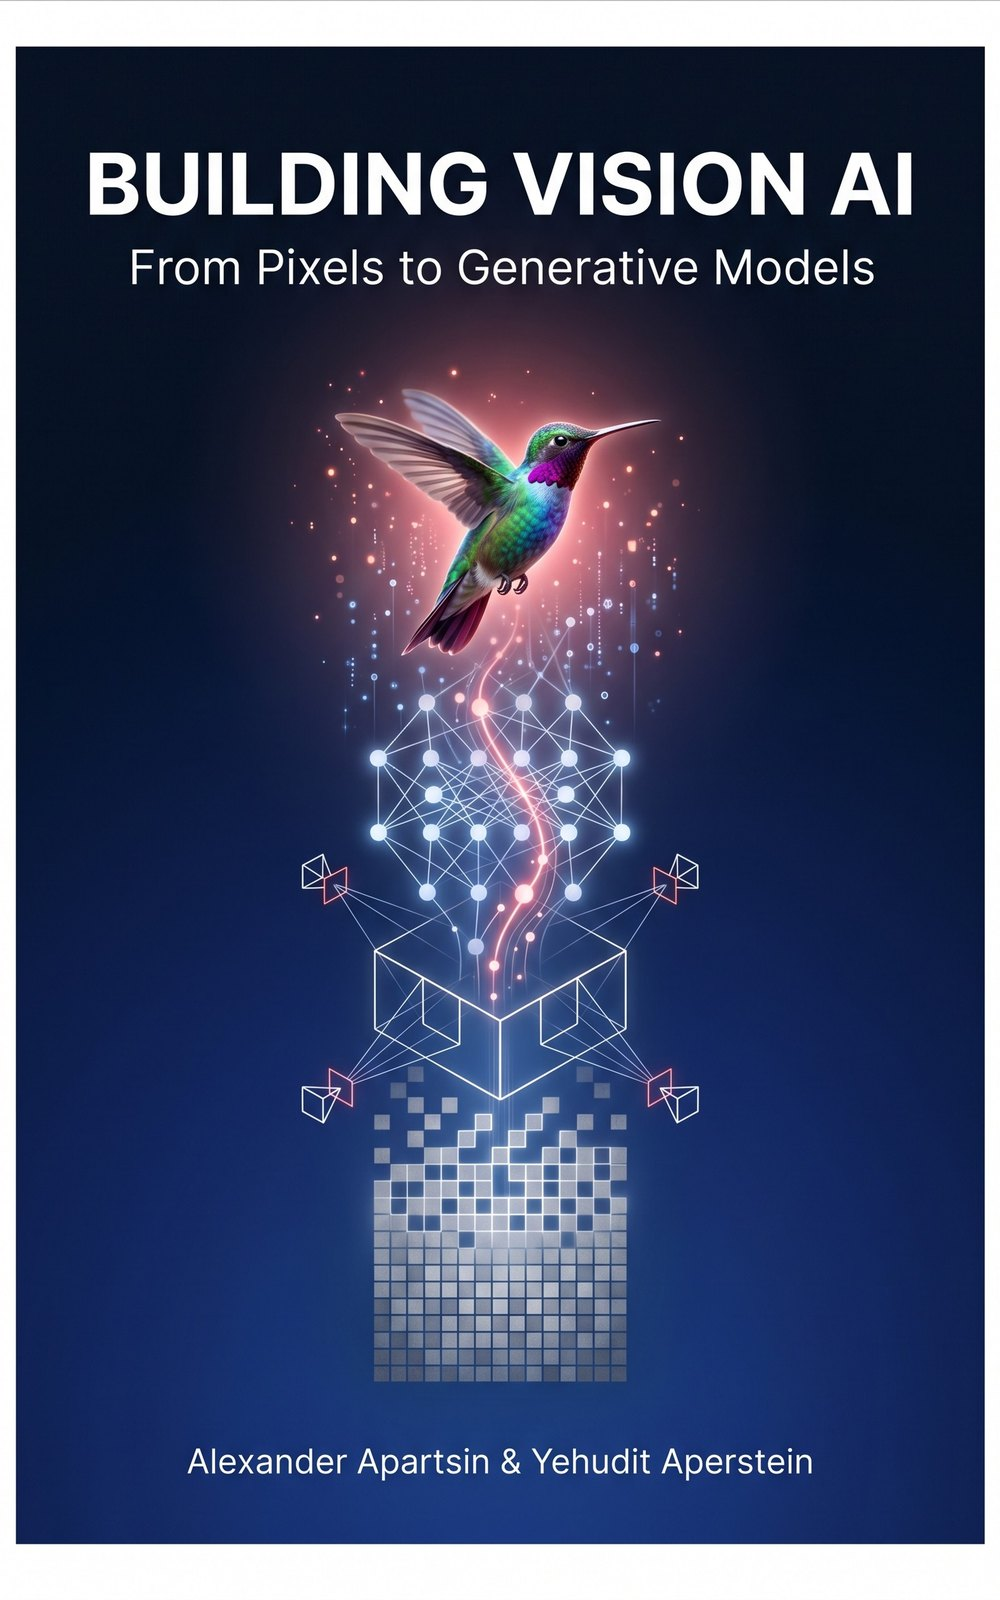
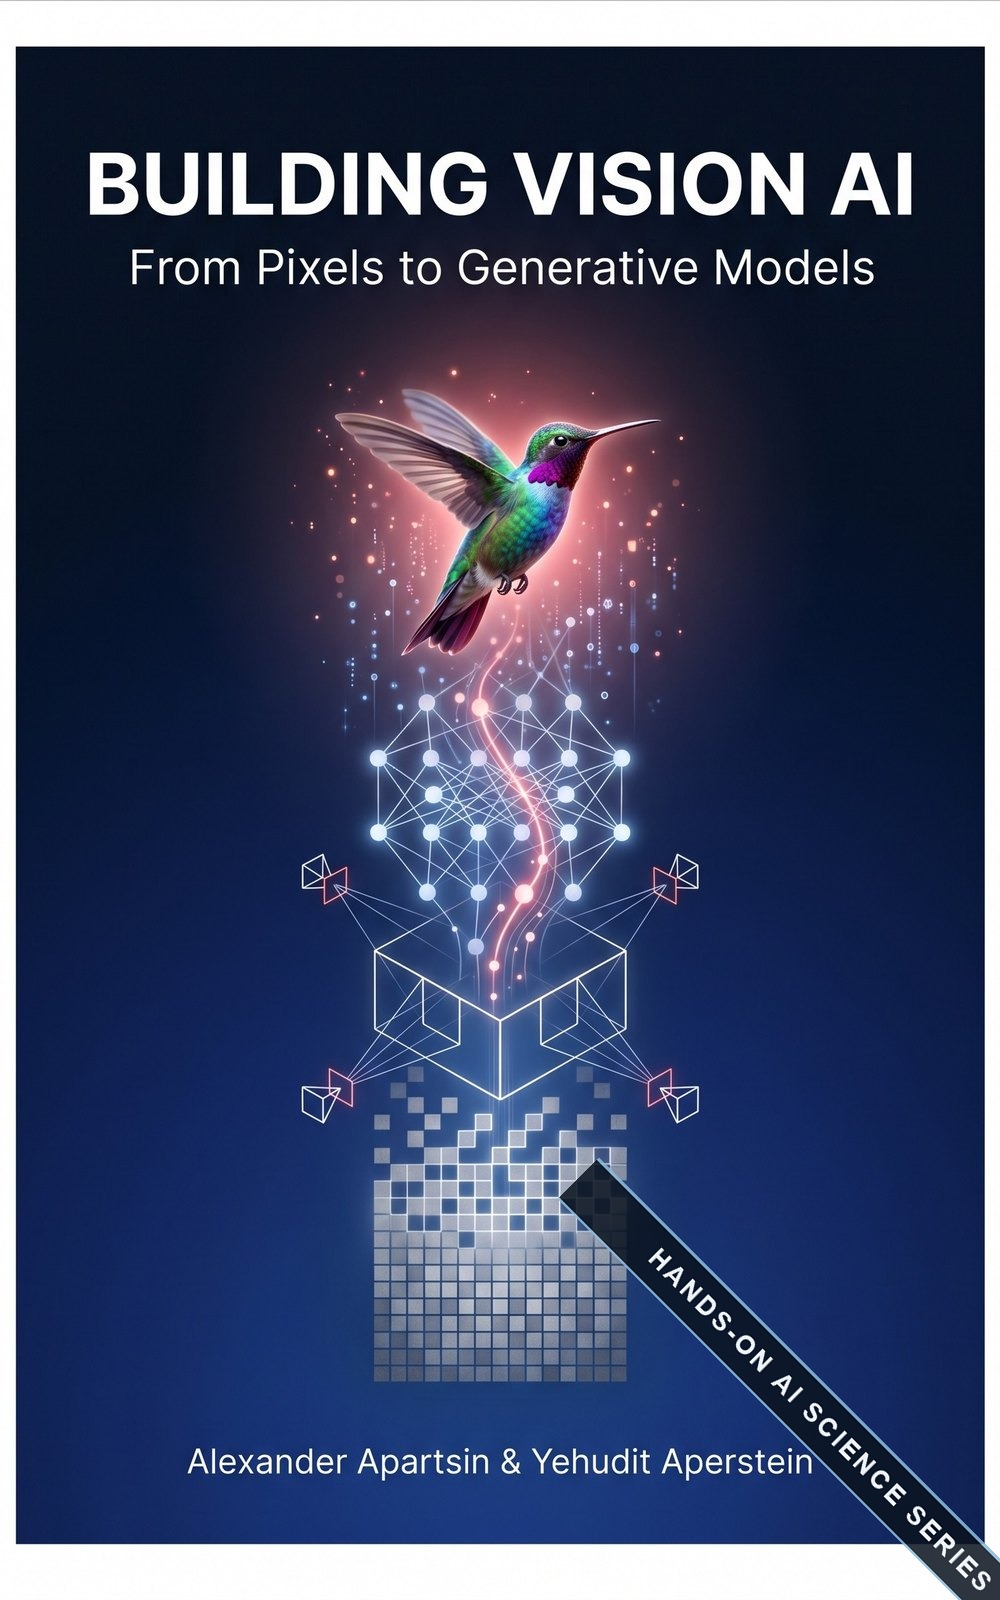
Join the Hands-On AI Science series: cover badge, landing block, front matter
Composite the series corner ribbon onto the cover (original preserved at
images/book-cover.preseries.jpg). Add a 'The Hands-On AI Science Series'
landing block to index.html after the teaches section, marking Vision as
'You are here' and linking the other three books to their site and Kindle.
Add front-matter/about-the-series.html and a toc.html entry (F8).

Changed region(s): [[0.558, 0.7188, 1.0, 1.0]]

diff --git a/front-matter/about-the-series.html b/front-matter/about-the-series.html
@@ -1,0 +1,62 @@
+<!DOCTYPE html>
+<html lang="en">
+<head>
+<!-- Google tag (gtag.js) -->
+<script async src="https://www.googletagmanager.com/gtag/js?id=G-FQJHVSGYWS"></script>
+<script>
+  window.dataLayer = window.dataLayer || [];
+  function gtag(){dataLayer.push(arguments);}
+  gtag('js', new Date());
+  gtag('config', 'G-FQJHVSGYWS');
+</script>
+
+<meta charset="utf-8"/>
+<meta content="width=device-width, initial-scale=1.0" name="viewport"/>
+<meta content="About the Hands-On AI Science Series: deep, build-it-yourself guides to the major fields of artificial intelligence, with the other books in the series." name="description"/>
+<title>About the Hands-On AI Science Series | Building Vision AI</title>
+<link href="../styles/book.css" rel="stylesheet"/>
+<script defer="" src="../scripts/book.js"></script>
+<link href="../pagefind/pagefind-ui.css" rel="stylesheet"/>
+<script defer="" src="../pagefind/pagefind-ui.js"></script>
+</head>
+<body>
+<header class="chapter-header">
+<nav class="header-nav">
+<a class="book-title-link" href="../index.html">Building Vision AI: From Pixels to Generative Models</a>
+<a class="toc-link" href="../toc.html" title="Table of Contents"><span class="toc-icon">&#9776;</span> Contents</a>
+</nav>
+<div class="header-search"><div id="search"></div></div>
+<div class="part-label">Front Matter</div>
+<div class="chapter-label">F8 &#183; About the Series</div>
+<h1>About the Hands-On AI Science Series</h1>
+</header>
+<main class="content" id="main-content">
+<p><em>Building Vision AI</em> is part of <strong>Hands-On AI Science</strong>, a series that pairs serious depth with serious building.</p>
+<p>Most AI books pick a side. Some are reference manuals for an API or a library: handy this year, stale the next, and quiet about why anything works. Others are theory texts you admire but rarely run. Hands-On AI Science was created to be both at once: the science and the build, in one connected story.</p>
+<p>Each book in the series takes a single field of AI and develops it from first principles to the current research frontier. It treats the subject at graduate depth, with a real dive into the theories, models, and internals, and it aims to be complete, placing the classical foundations and the newest approaches side by side. Then it makes you build. Every core idea is implemented in plain Python, first in a small from-scratch version that exposes the mechanism, then with the modern libraries and tools that do the job quickly. That hands-on half is where the series gets its name.</p>
+<div class="callout key-insight">
+<div class="callout-title">Key Insight: What "Hands-On AI Science" promises</div>
+<p>It is hands-on: it shows you how to build things. It is science: it does not stop at the API, and it takes the scientific and philosophical questions behind the models seriously. And it is AI: from the basics through the frontier.</p>
+</div>
+<p>Depth need not be dense. The series explains in plain language and leans on illustrations, analogies, mental models, and step-by-step reasoning, with epigraphs and a light tone that make the books genuinely pleasant to read. Next to the science you will find implementation best practices, rules of thumb, case studies, and the engineering issues that decide whether a method survives contact with real data.</p>
+<p>Each volume is self-contained and structured to support a full undergraduate or graduate course, or a focused seminar on any one of its parts.</p>
+<h2>The Books in the Series</h2>
+<ul>
+<li><strong>Building Language AI</strong>: From Tokens to Agents. <a href="https://llmbook.apartsin.com" rel="noopener" target="_blank">llmbook.apartsin.com</a> &#183; <a href="https://www.amazon.com/dp/B0H1MQH23D" rel="noopener" target="_blank">Kindle</a></li>
+<li><strong>Building Vision AI</strong>: From Pixels to Generative Models. <em>You are reading it.</em> <a href="../index.html">visionbook.apartsin.com</a></li>
+<li><strong>Building Temporal AI</strong>: From Forecasting to Sequential Decision Making. <a href="https://temporalbook.apartsin.com" rel="noopener" target="_blank">temporalbook.apartsin.com</a> &#183; <a href="https://www.amazon.com/dp/B0H5KRJFCD" rel="noopener" target="_blank">Kindle</a></li>
+<li><strong>Building Scalable AI</strong>: From Big Data Algorithms to Distributed Intelligence. <a href="https://scalablebook.apartsin.com" rel="noopener" target="_blank">scalablebook.apartsin.com</a> &#183; <a href="https://www.amazon.com/s?k=Building+Scalable+AI+Apartsin+Aperstein&amp;i=digital-text" rel="noopener" target="_blank">Kindle</a></li>
+</ul>
+<nav class="chapter-nav">
+<a class="prev" href="../index.html">&#8592; Book Home</a>
+<a href="../toc.html">Contents</a>
+<a class="next" href="copyright.html">Copyright &amp; Legal &#8594;</a>
+</nav>
+<footer>
+<p class="footer-title">Building Vision AI: From Pixels to Generative Models, Second Edition</p>
+<p>&#169; 2026 Alexander Apartsin &amp; Yehudit Aperstein &#183; <a href="../toc.html">Contents</a></p>
+<p class="footer-updated">Last updated: <script>document.write(new Date(document.lastModified).toLocaleDateString('en-US', {year:'numeric', month:'long', day:'numeric'}))</script></p>
+</footer>
+</main>
+</body>
+</html>

diff --git a/index.html b/index.html
@@ -335,6 +335,52 @@ body.cover-page .part-card.part-2 { --part-hue: #d9bd7a; }
 body.cover-page .part-card.part-3 { --part-hue: #b3a2f5; }
 body.cover-page .part-card.part-4 { --part-hue: #ef9eb4; }
 
+/* ---------- Series cards (non-link variant: links live inside) ---------- */
+body.cover-page .series-section { padding: 3rem 0 1.5rem; }
+body.cover-page .series-card { cursor: default; }
+body.cover-page .series-card:hover { transform: none; }
+body.cover-page .series-card .series-arc {
+    font-size: 0.95rem;
+    color: rgba(220, 229, 238, 0.7);
+    line-height: 1.5;
+    margin: 0 0 1rem;
+    flex-grow: 1;
+}
+body.cover-page .series-card .series-links {
+    font-family: 'Cinzel', Georgia, serif;
+    font-size: 0.74rem;
+    font-weight: 500;
+    text-transform: uppercase;
+    letter-spacing: 0.1em;
+}
+body.cover-page .series-card .series-links a {
+    color: var(--part-hue, #7fd0ec);
+    text-decoration: none;
+    border-bottom: 1px solid transparent;
+    transition: border-color 0.2s;
+}
+body.cover-page .series-card .series-links a:hover { border-bottom-color: var(--part-hue, #7fd0ec); }
+body.cover-page .series-card .series-here {
+    font-family: 'Cinzel', Georgia, serif;
+    font-size: 0.74rem;
+    font-weight: 700;
+    text-transform: uppercase;
+    letter-spacing: 0.14em;
+    color: var(--part-hue, #7fd0ec);
+}
+body.cover-page .series-cta {
+    text-align: center;
+    margin-top: 1.6rem;
+    font-size: 1rem;
+    color: rgba(220, 229, 238, 0.7);
+}
+body.cover-page .series-cta a {
+    color: #7fd0ec;
+    text-decoration: none;
+    border-bottom: 1px solid rgba(150, 200, 235, 0.3);
+}
+body.cover-page .series-cta a:hover { border-bottom-color: rgba(150, 200, 235, 0.7); }
+
 /* ---------- How this book teaches ---------- */
 body.cover-page .teaches-section { padding: 3rem 0 2rem; }
 
@@ -507,6 +553,40 @@ body.cover-page footer.cover-footer a:hover { color: #aedcf5; }
 </div>
 
 </div>
+</section>
+
+<section aria-labelledby="series-heading" class="series-section">
+<h2 class="cover-section-title" id="series-heading">The Hands-On AI Science Series</h2>
+<p class="cover-section-sub">Building Vision AI is one of four connected books, each a deep, build-it-yourself guide to a major field of AI.</p>
+<p class="cover-promise" style="margin-top:0;">Hands-On AI Science is a series of in-depth guides to the major fields of artificial intelligence. Every book goes deep into the theory, models, and internals, covering the classical foundations and the most recent ideas, then shows you how to build each one in Python with the modern libraries and tools that get the job done. The writing stays plain and light (illustrations, analogies, mental models, worked examples, and a little fun) without trading away rigor or coverage. Each volume is self-contained and complete enough to anchor a full course on its subject.</p>
+<div class="part-grid">
+
+<div class="part-card series-card part-1">
+<h3>Building Language AI</h3>
+<p class="series-arc">From Tokens to Agents.</p>
+<span class="series-links"><a href="https://llmbook.apartsin.com" rel="noopener" target="_blank">Read online</a> &#183; <a href="https://www.amazon.com/dp/B0H1MQH23D" rel="noopener" target="_blank">Kindle</a></span>
+</div>
+
+<div class="part-card series-card part-2">
+<h3>Building Vision AI</h3>
+<p class="series-arc">From Pixels to Generative Models.</p>
+<span class="series-here">You are here</span>
+</div>
+
+<div class="part-card series-card part-3">
+<h3>Building Temporal AI</h3>
+<p class="series-arc">From Forecasting to Sequential Decision Making.</p>
+<span class="series-links"><a href="https://temporalbook.apartsin.com" rel="noopener" target="_blank">Read online</a> &#183; <a href="https://www.amazon.com/dp/B0H5KRJFCD" rel="noopener" target="_blank">Kindle</a></span>
+</div>
+
+<div class="part-card series-card part-4">
+<h3>Building Scalable AI</h3>
+<p class="series-arc">From Big Data Algorithms to Distributed Intelligence.</p>
+<span class="series-links"><a href="https://scalablebook.apartsin.com" rel="noopener" target="_blank">Read online</a> &#183; <a href="https://www.amazon.com/s?k=Building+Scalable+AI+Apartsin+Aperstein&amp;i=digital-text" rel="noopener" target="_blank">Kindle</a></span>
+</div>
+
+</div>
+<p class="series-cta">Read the full <a href="front-matter/about-the-series.html">About the Hands-On AI Science Series</a> note.</p>
 </section>
 
 </div>

diff --git a/toc.html b/toc.html
@@ -62,7 +62,7 @@
 
 <section class="toc-part toc-front-matter" id="front-matter">
 <header class="toc-part-header">
-<h2 class="toc-part-title"><span class="toc-part-prefix">Front Matter</span> <span class="toc-part-sep">&#183;</span> <a href="front-matter/foreword.html">Why This Book Exists</a></h2><span class="toc-part-count">7 entries</span>
+<h2 class="toc-part-title"><span class="toc-part-prefix">Front Matter</span> <span class="toc-part-sep">&#183;</span> <a href="front-matter/foreword.html">Why This Book Exists</a></h2><span class="toc-part-count">8 entries</span>
 </header>
 <ol class="toc-chapter-list">
 <li class="toc-chapter"><div class="toc-chapter-head"><span class="toc-chapter-num">F1</span><div><a class="toc-card-link" href="front-matter/foreword.html"><span class="toc-chapter-title">Why This Book Exists</span></a><span class="toc-chapter-subtitle">Vision AI spans sixty years of ideas, from convolution kernels to diffusion models; this book teaches them as one connected story.</span></div></div><code class="toc-chapter-dir">front-matter/foreword.html</code></li>
@@ -72,6 +72,7 @@
 <li class="toc-chapter"><div class="toc-chapter-head"><span class="toc-chapter-num">F5</span><div><a class="toc-card-link" href="front-matter/fm-how-to-use.html"><span class="toc-chapter-title">How to Use This Book</span></a><span class="toc-chapter-subtitle">Reading paths for engineers, researchers, and self-study learners; how the parts depend on each other.</span></div></div><code class="toc-chapter-dir">front-matter/fm-how-to-use.html</code></li>
 <li class="toc-chapter"><div class="toc-chapter-head"><span class="toc-chapter-num">F6</span><div><a class="toc-card-link" href="front-matter/about-authors.html"><span class="toc-chapter-title">About the Authors</span></a><span class="toc-chapter-subtitle">Who wrote this book and how.</span></div></div><code class="toc-chapter-dir">front-matter/about-authors.html</code></li>
 <li class="toc-chapter"><div class="toc-chapter-head"><span class="toc-chapter-num">F7</span><div><a class="toc-card-link" href="front-matter/copyright.html"><span class="toc-chapter-title">Copyright &amp; Legal</span></a><span class="toc-chapter-subtitle">Edition, license, and attribution.</span></div></div><code class="toc-chapter-dir">front-matter/copyright.html</code></li>
+<li class="toc-chapter"><div class="toc-chapter-head"><span class="toc-chapter-num">F8</span><div><a class="toc-card-link" href="front-matter/about-the-series.html"><span class="toc-chapter-title">About the Hands-On AI Science Series</span></a><span class="toc-chapter-subtitle">The four-book Hands-On AI Science series and where this volume fits.</span></div></div><code class="toc-chapter-dir">front-matter/about-the-series.html</code></li>
 </ol>
 </section>
 
